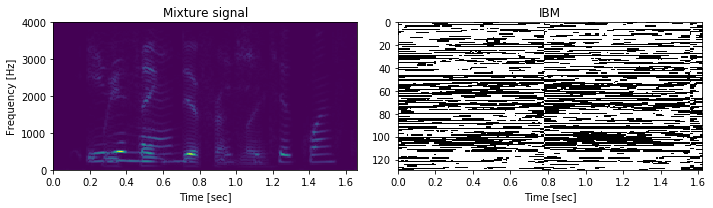
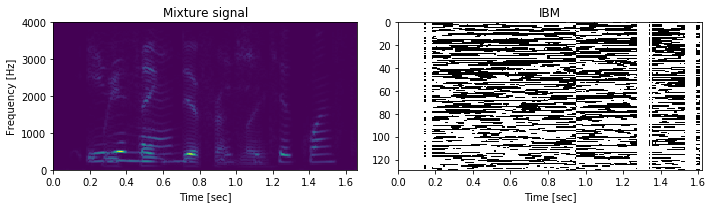
Add files via upload

Changed region(s): [[0.5554, 0.0865, 0.9874, 0.8365]]

diff --git a/Bi-Directional-RNN/train_bi_directional_RNN.py b/Bi-Directional-RNN/train_bi_directional_RNN.py
@@ -18,7 +18,7 @@ sys.path.append('../Datagenerator')
 from datagenerator2 import DataGenerator2
 
 #list of training data files   
-pkl_list = ['../Data/train' + str(i) + '.pkl' for i in range(1, 2)]
+pkl_list = ['../Data/train' + str(i) + '.pkl' for i in range(1, 3)]
 
 # generator for training set and validation set
 data_generator = DataGenerator2(pkl_list)
@@ -258,49 +258,20 @@ data_generator = DataGenerator()
 #Get spectrogram of two wav files combined
 testdata = data_generator.CreateTrainingDataSpectrogram(wavfile1, wavfile2, sampling_rate, frame_size, maxFFTSize, vad_threshold)
 
-#%% As a test - convert spectrogram back into time domain
-import matplotlib.pyplot as plt
-
-#Get spectrogram from testing routine
-testspectrogram1 = np.power(10, testdata['Sample'])
-
-#Get recovered mixture from istft routine
-wav_recovered = data_generator.istft(testspectrogram1, sampling_rate, frame_size)
-   
-#Amplify wav file
-wav_recovered = wav_recovered * 5
-
-#See wav file
-plt.figure(1)
-
-#sub plot 1 - Original signal
-ax1 = plt.subplot(211)
-plt.plot(testdata['MixtureSignal'])
-plt.xlabel('time')
-plt.title('original signal')
-
-#sub plot 2 - Recovered signal
-ax2 = plt.subplot(212, sharex=ax1)
-plt.plot(wav_recovered)
-plt.xlabel('time')
-plt.title('recovered signal')
-
-plt.show() 
-
-#%% remove unused variables
-
-del testspectrogram1, wav_recovered
 
 #%% Create ibm from model
 
+# Get only active test features
+ts_features = testdata['Sample'][testdata['VAD']]
+
 #Get number of features variable
-n_features = np.shape(testdata['Sample'])[1]
+n_features = np.shape(ts_features)[1]
   
 #Previously saved model 
 model_checkpoint = "./model.chkpt"
 
 #Create array for storing IBM
-ibm = []
+ibm_list = []
 
 #create saver to save session
 saver = tf.train.Saver()
@@ -311,7 +282,7 @@ with tf.Session() as sess:
     saver.restore(sess, model_checkpoint)
         
     #get length of spectrogram for mixture signal
-    len_spec = testdata['Sample'].shape[0]
+    len_spec = ts_features.shape[0]
     k = 0
     
     #loop through spectrograms creating chunks of (frames_per_sample) time periods 
@@ -320,30 +291,30 @@ with tf.Session() as sess:
         #if have come to the end of the spectrogram, need to pad the rest of the spectrogram with 0s to get a 129x209 array
         if (k + frames_per_sample > len_spec):
             # Get remaining data
-            ts_features = testdata['Sample'][k:k + frames_per_sample, :]
+            x = ts_features[k:k + frames_per_sample, :]
             
             # get shape of current ts_features
-            current_len_spec = ts_features.shape[0]
+            current_len_spec = x.shape[0]
             
             # Pad ts_features so that it is the full size
-            ts_features = np.pad(ts_features, ((0, (frames_per_sample-current_len_spec)), (0, 0)), 'constant', constant_values=(0))
+            x = np.pad(x, ((0, (frames_per_sample-current_len_spec)), (0, 0)), 'constant', constant_values=(0))
             
             # reshape spectrogram for neural network
-            ts_features = np.reshape(ts_features, [1, frames_per_sample, n_features])
+            x = np.reshape(x, [1, frames_per_sample, n_features])
 
         else:
             # Get data
-            ts_features = np.reshape(testdata['Sample'][k:k + frames_per_sample, :], [1, frames_per_sample, n_features])
+            x = np.reshape(ts_features[k:k + frames_per_sample, :], [1, frames_per_sample, n_features])
                 
         # get inferred ibm using trained model
-        ibm_batch = sess.run([a], feed_dict={X: ts_features})
+        ibm_batch = sess.run([a], feed_dict={X: x})
         
         # append ibm from batch to previous ibms
         # if have come to the end of the spectrogram, only append relevant points and not padded points
         if (k + frames_per_sample > len_spec):
-            ibm.append(ibm_batch[0][0:current_len_spec,:])
+            ibm_list.append(ibm_batch[0][0:current_len_spec,:])
         else:
-            ibm.append(ibm_batch[0])
+            ibm_list.append(ibm_batch[0])
         
         #increment k to look at next n time points
         k = k + frames_per_sample
@@ -351,12 +322,20 @@ with tf.Session() as sess:
 
  
 #Convert list to array       
-ibm = np.concatenate([item for item in ibm], axis=0)
+ibm_array = np.concatenate([item for item in ibm_list], axis=0)
 
 #Round each point to 0 or 1
-ibm = (np.round(ibm, 0)).astype(int)
+ibm_array = (np.round(ibm_array, 0)).astype(int)
+
+#Add extra points to IBM where VAD is 0
+#Get index of all time points that have 0 activity
+vad = np.where(testdata['VAD'] == False)[0]
+#take index away from index points
+vad1 = np.subtract(vad, np.asarray(range(vad.shape[0])))
+#Use insert to insert extra columns into ibm where VAD is 0
+ibm = np.insert(ibm_array, vad1, 0, axis=0)
         
-del k, n_features, len_spec, current_len_spec
+del k, n_features, len_spec, current_len_spec, ibm_array, ibm_list
 
 #%% Show original mixture spectrogram and mask
 
